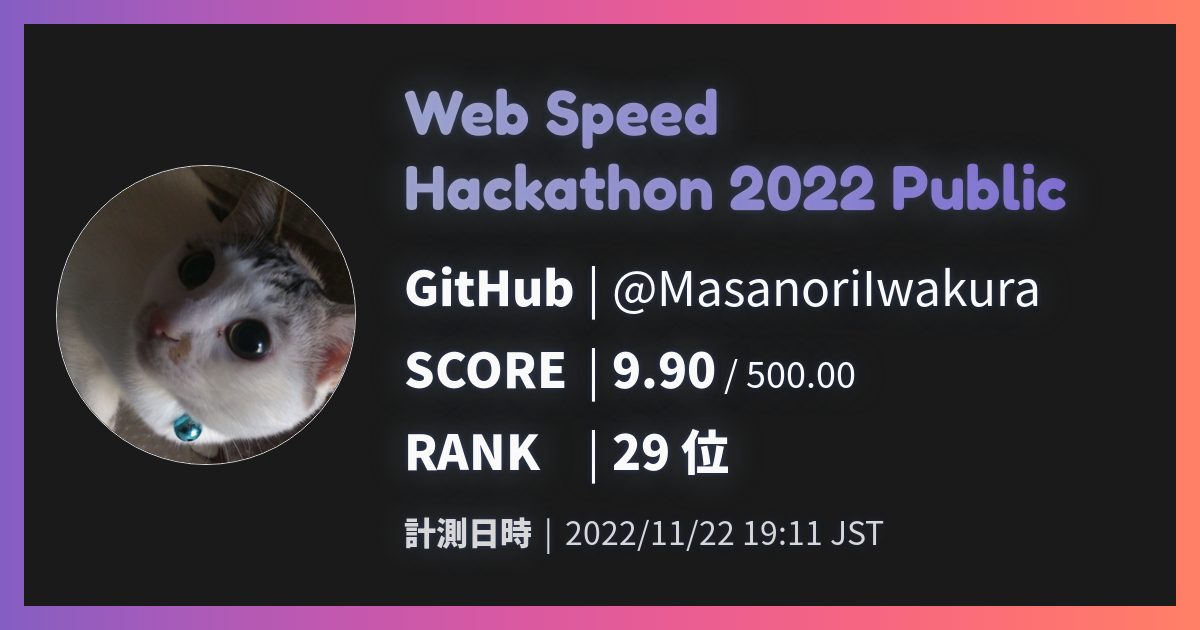
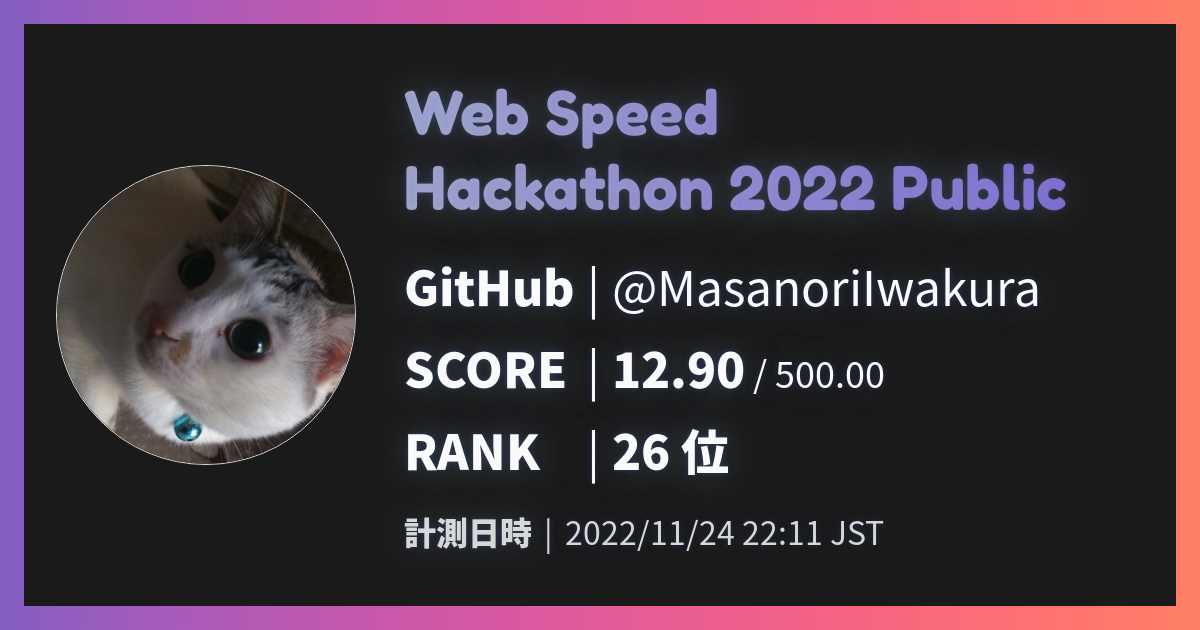
deploy: 7b80595fbb78112296e86c9df1d34c76249be146

Changed region(s): [[0.4933, 0.5429, 0.74, 0.6333], [0.5858, 0.8143, 0.6475, 0.8746], [0.5242, 0.6937, 0.555, 0.754]]

diff --git a/scores/MasanoriIwakura/index.html b/scores/MasanoriIwakura/index.html
@@ -14,7 +14,7 @@
   <meta property="twitter:description" content='Web アプリを高速にする競技 "Web Speed Hackathon 2022" です' />
   <meta
     property="twitter:image"
-    content="https://cyberagenthack.github.io/web-speed-hackathon-2022-leaderboard/scores/MasanoriIwakura/ogp.png?_=1669111954708"
+    content="https://cyberagenthack.github.io/web-speed-hackathon-2022-leaderboard/scores/MasanoriIwakura/ogp.png?_=1669297686610"
   />
   <body></body>
 </html>
